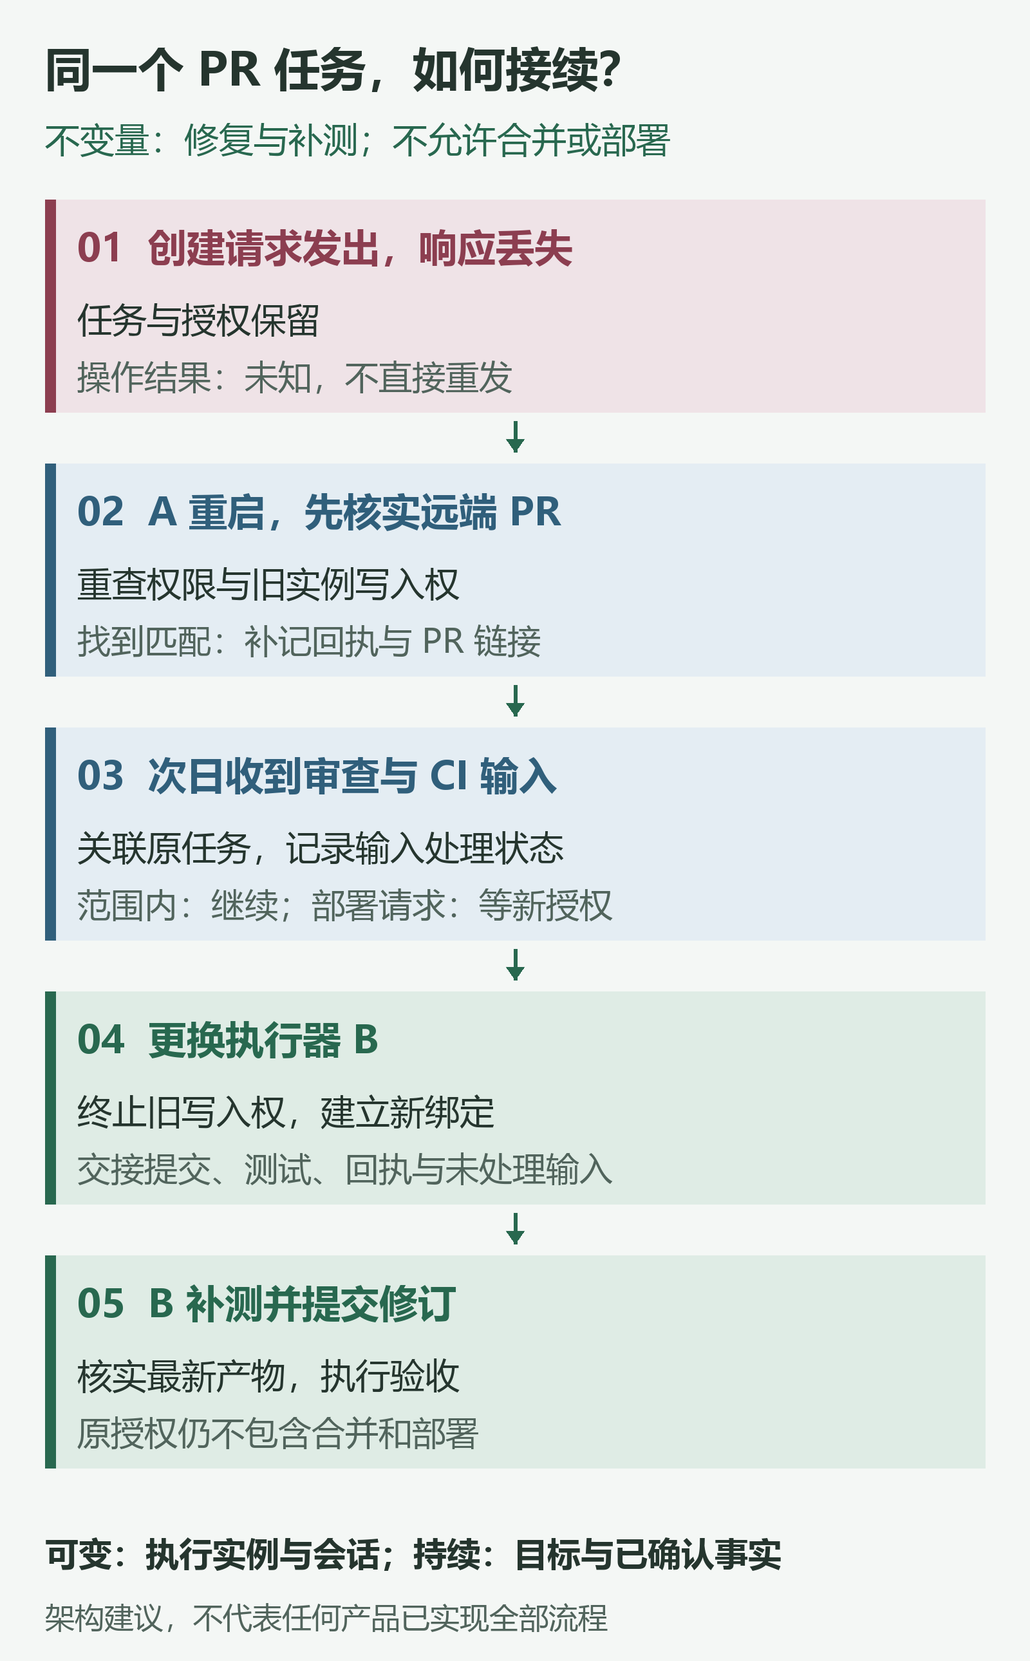
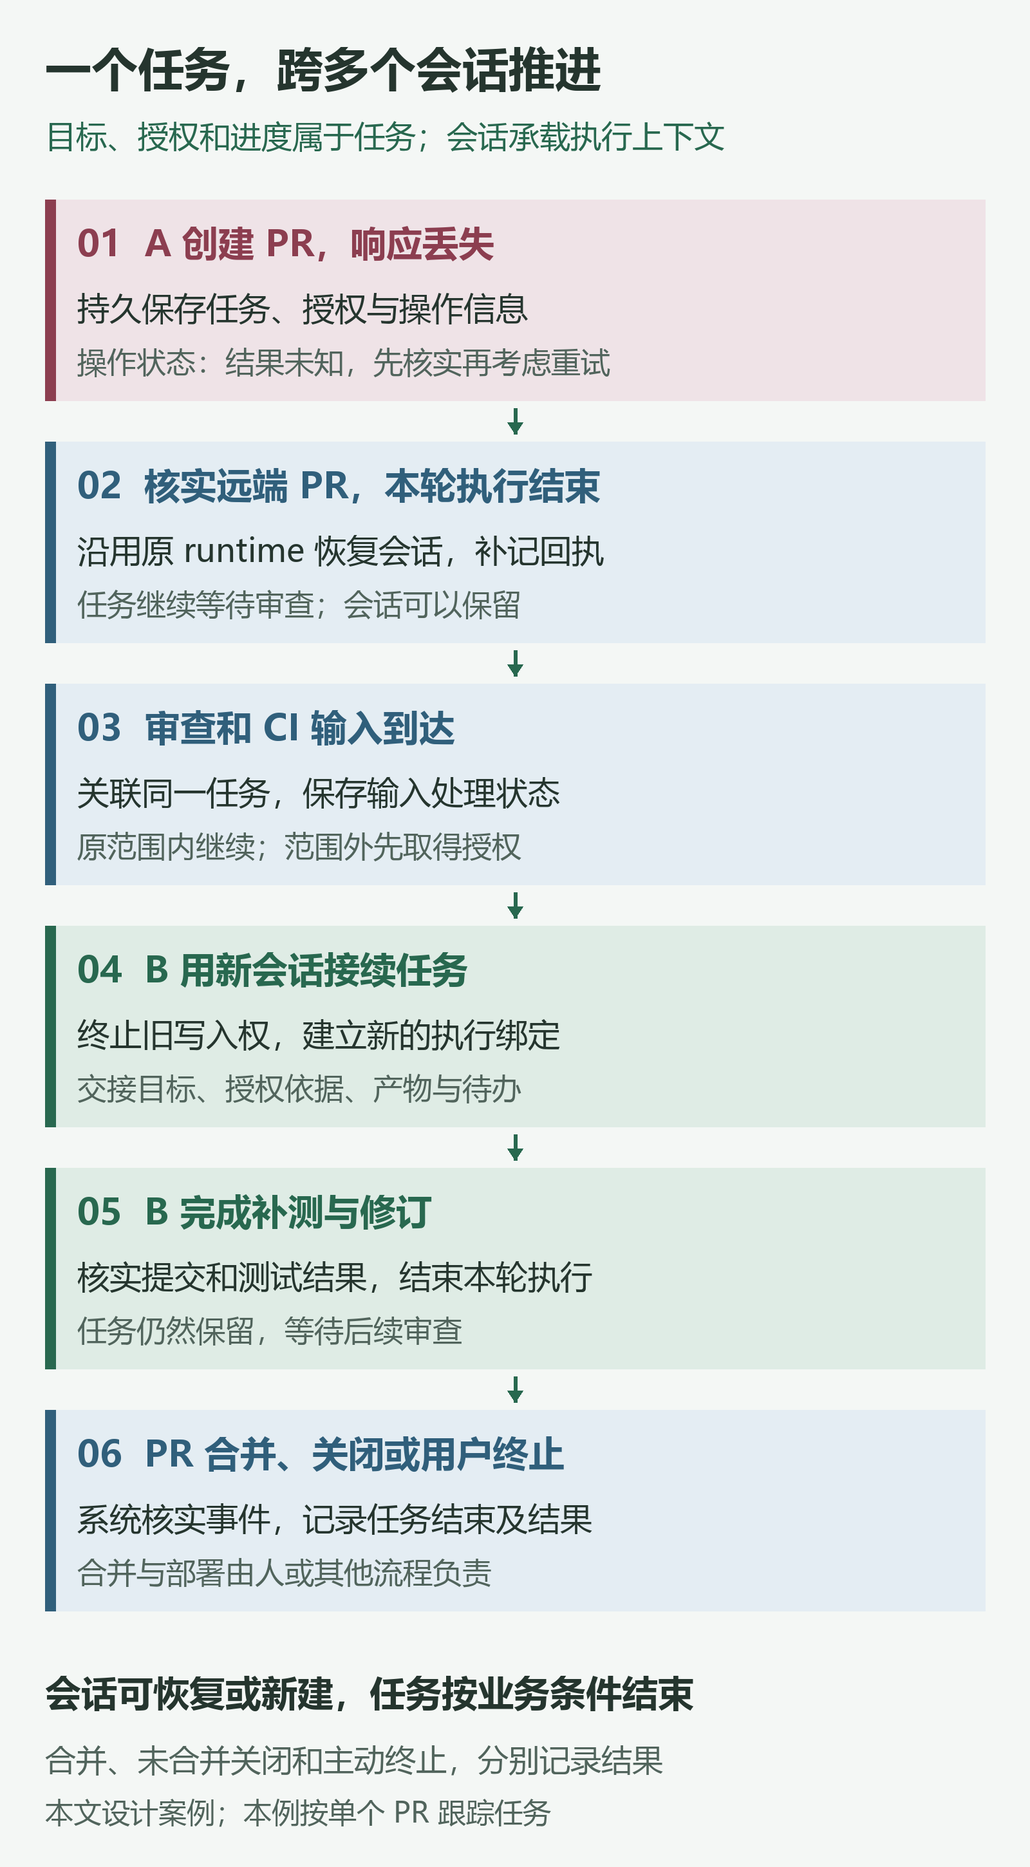
edit: clarify task lifecycle across agent sessions

Changed region(s): [[0.0312, 0.124, 0.75, 0.9922], [0.0312, 0.0, 0.6875, 0.124]]

diff --git a/content/posts/harness-boundaries-work-orchestration/index.md b/content/posts/harness-boundaries-work-orchestration/index.md
@@ -2,8 +2,8 @@
 title: "Harness 的边界正在重画：从模型适配到工作编排"
 date: 2026-11-05
 draft: false
-summary: "从一个 PR 任务的超时、重启和交接出发，讨论 Harness 如何分离状态、执行核心与工作编排，以及更换模型和执行器时需要保留哪些事实与授权。"
-description: "以 PR 任务的超时、重启和交接为例，分析 Harness 的状态管理、运行时接入与工作编排，以及更换模型和执行器时的恢复与授权要求。"
+summary: "一项修复任务可以跨多个会话，经历超时、重启、执行器交接和审查，直到 PR 合并、关闭或用户终止。借这条工作链，讨论 Harness 的状态管理、运行时接入和工作编排。"
+description: "以跨多个会话推进的 PR 修复任务为例，分析 Harness 的状态管理、运行时接入与工作编排，以及执行器交接时的事实保留、权限检查和任务结束条件。"
 tags:
   - Harness Engineering
   - Agent Runtime
@@ -21,17 +21,19 @@ Anthropic 在 [Managed Agents 的架构文章](https://www.anthropic.com/researc
 
 模型升级会让一些执行策略过时，但运行中的任务仍要应对进程崩溃、工具超时和结果丢失。模型再强，遇到一次超时的调用，系统也得核实它究竟有没有成功。
 
-因此，**harness 需要让规划、检索和上下文策略保持可替换，同时独立保存任务、授权与执行事实。** 上下文被压缩、进程被替换之后，后续执行仍要有据可查。这种状态分离可以在同一个服务内实现，是否拆分服务则取决于实际的运行与协作需求。
+因此，**支撑持续任务的系统，需要独立保存任务、授权与执行事实，让规划、检索和上下文策略保持可替换。** 这些状态可以由宿主、业务平台或托管服务按职责维护。上下文被压缩、执行进程被替换之后，后续工作仍要有据可查。状态分离可以在同一个服务内实现，是否拆分服务则取决于实际的运行与协作需求。
 
-下面用一项假想任务串起这些问题：用户授权 agent 修复当前仓库的接口超时、补充测试并提交 PR，**不包含合并和部署**。
+下面用一项假想任务串起这些问题：修复当前仓库的接口超时，并跟进相关测试和审查。agent 可以提交、补测和修订 PR，**合并与部署由人或其他流程负责**。本例中，任务持续跟踪到该 PR 合并或关闭，用户也可以提前终止。系统分别记录合并、未合并关闭或主动终止等结果。
 
-文中的“执行器”指实际承担这次工作的 agent 运行实例，它使用选定的 runtime，并绑定会话和执行环境。任务与执行器的绑定关系，后文称为 Assignment。假设执行过程中接连发生了这些事：
+文中的“执行器”指实际承担这次工作的 agent 运行实例，它使用选定的 runtime，并绑定会话和执行环境。任务与执行器的绑定关系，后文称为 Assignment。
 
-> 创建 PR → 成功响应丢失 → 执行器重启 → 次日审查追加要求 → 更换执行器继续处理。
+**任务保存目标、授权、业务进度和产物，会话承载执行上下文。同一个任务可以跨多个会话，由不同执行器先后接续。** 一个会话也可以承载多轮执行。假设这项任务依次经历：
 
-要让工作继续，系统需要回答三个问题：进程退出后，状态和环境如何管理？换一个 harness，宿主怎样接入？跨过多个会话之后，任务由谁持续管理？下文按这三个问题展开，讨论的流程是架构建议，具体产品的实现范围会另行说明。
+> 创建 PR → 成功响应丢失 → 恢复执行并核实结果 → 本轮执行结束，任务等待审查 → 新会话接手修订 → PR 合并、关闭或用户终止。
 
-## 最贴近模型的地方，未必最稳定
+要让工作继续，系统需要回答三个问题：进程退出后，状态和环境如何管理？换一个 harness，宿主怎样接入？跨过多个会话之后，任务由谁持续管理？下文按这三个问题展开讨论。
+
+## 模型升级后，哪些设计还成立？ {#最贴近模型的地方未必最稳定}
 
 讨论 agent 时，常见的起点是 [ReAct](https://arxiv.org/abs/2210.03629)：模型提出行动，环境返回观察，模型再据此选择下一步。这解释了行动循环如何推进；存储、恢复和权限还需要运行系统来处理。
 
@@ -48,9 +50,9 @@ Anthropic 在 [Managed Agents 的架构文章](https://www.anthropic.com/researc
 
 同一项责任可以更换实现，同一套接口也可以放在进程内或独立服务中。是否拆分，要看各部分需要怎样的生命周期、故障隔离和权限控制。
 
-![同一个 PR 任务经过响应丢失、执行器重启、审查追问和执行器替换；任务与授权持续存在，执行绑定可变化，操作结果先核实再继续。](./PR任务的恢复与交接.png)
+![同一项修复任务跨多个会话推进：A 创建 PR 的响应丢失后先核实操作结果，本轮执行结束后任务等待审查；B 用新会话接手修订，直到 PR 合并、关闭或用户终止，系统记录任务结果。](./PR任务的恢复与交接.png)
 
-*PR 任务的恢复与交接示意。业务授权决定工作范围，执行器权限决定实际能做什么，PR 审查批准则是代码评审结论；三者分别生效。*
+*任务跨越多轮执行和多个会话，本例以 PR 合并、关闭或用户明确终止为结束条件。业务授权限定 agent 能做什么，PR 审查批准表达评审结论；合并和部署由人或其他流程执行。*
 
 ## 第一条边界：让状态和环境不再依附一个进程
 
@@ -82,15 +84,15 @@ Anthropic 的 Managed Agents 架构文章，将系统分成三类对象：
 
 执行器 A 发出创建 PR 的请求前，应先持久化仓库、head/base 分支、提交版本和本次操作的关联标识。响应超时后，把操作标为**结果未知**，保留核实的依据。即使 A 随后崩溃，这些记录也必须能被找回。
 
-重启时，宿主先确认旧实例不会继续写入，再恢复原有会话或交给新实例接手。恢复流程要查询远端 PR，用仓库、分支等信息核实结果。找到唯一匹配后，补记 PR 链接和回执。
+重启时，宿主先确认旧实例不会继续写入。这里先沿用原来的 runtime 恢复 A 的会话，任务记录继续保留。恢复流程要查询远端 PR，用仓库、分支等信息核实结果。找到唯一匹配后，补记 PR 链接和回执。
 
 如果查不清结果，就保持待核实状态。只有证实操作未发生，或外部接口明确提供幂等保证时，才考虑重试。内部关联标识便于追踪操作，远端能否去重仍取决于外部接口。
 
-更换执行实例时，任务目标和授权记录继续保留，恢复流程还要检查权限是否过期或被撤销。
+恢复流程还要检查权限是否过期或被撤销。进程替换、会话恢复和任务是否结束，由各自的规则决定。
 
 ## 第二条边界：Harness 自己成为可组合的部件
 
-PR 已确认存在，A 进入等待审查的阶段。如果接下来想换成使用另一个 runtime 的执行器 B，宿主需要怎样接入它？
+PR 创建结果确认后，A 可以结束本轮执行，任务进入等待审查阶段。后续输入到来时，系统可以恢复原会话，也可以创建新会话继续处理。如果准备交给使用另一种 runtime 的执行器 B，宿主还需要解决怎样接入它的问题。
 
 ### 可嵌入应用的执行核心 {#产品往下提供-sdk框架往上提供-harness}
 
@@ -124,7 +126,7 @@ Barbaste 的[分析](https://arxiv.org/html/2609.00006v1#S14.SS4)还记录了它
 
 隔离机制也有差异。在该研究快照中，Omnigent 对某些后端使用自己的沙箱包装，对 Codex 则委托原生沙箱。即使公共策略相同，底层实现和信任假设仍可能不同，需要逐后端验证隔离强度。
 
-接入 B 时，至少要测清四件事：取消会停止哪些作业，B 能否访问同一个工作区，权限由谁检查，失败会返回什么状态。确认这些之后，才有条件继续讨论怎样把 A 的工作交给 B。
+接入 B 时，至少要测清四件事：取消会停止哪些作业，B 能否取得任务所需的代码和产物，权限由谁检查，失败会返回什么状态。工作区可以复用，也可以根据保存的产物重建。确认这些之后，才有条件继续讨论怎样把 A 的工作交给 B。
 
 ### 替换对象的三个层次
 
@@ -136,7 +138,7 @@ Barbaste 的[分析](https://arxiv.org/html/2609.00006v1#S14.SS4)还记录了它
 
 ## 第三条边界：从管理会话，到管理工作
 
-第二天，PR 审查者要求补一个取消请求的测试，CI 也报告了偶发失败。系统需要把这些输入关联到原任务，再决定由谁继续处理。
+第二天，PR 审查者要求补一个取消请求的测试，CI 也报告了偶发失败。A 的上一轮执行已经结束，任务仍在等待审查。系统需要把新输入关联到这项任务，再决定恢复原会话，还是交给新会话处理。
 
 多 agent 协作早已存在，[AutoGen](https://arxiv.org/abs/2308.08155)等研究探索过角色分工。当任务还要持续接收外部事件时，调度需要处理更多情况。
 
@@ -154,15 +156,17 @@ Barbaste 的[分析](https://arxiv.org/html/2609.00006v1#S14.SS4)还记录了它
 
 如果先读过[设计文章](https://mp.weixin.qq.com/s/zoS7GlReWPhfCjENGxXCdg)，需要留意两份资料的用词：设计文章用 Router、Worker 和 Watchdog 描述协调、执行和监督角色；仓库用 Trigger、Thread 组织输入，再用上述三个对象记录工作、授权及其与 Executor 的绑定。两者各自侧重的内容和实现范围有所区别。
 
-**Ticket 有独立于 Session 的生命周期。** PR 提交后，会话可以结束，任务继续等待审查；执行器退出可以结束一次 Assignment，Ticket 则保留下来。后续信息通过订阅关系到达，允许处理的范围由 Mandate 记录。
+**Ticket 有独立于 Session 的生命周期，一项任务可以跨多个会话。** 提交 PR 后，本轮执行可以结束，任务继续等待审查。后续工作可以恢复原会话，也可以在新会话中推进；执行器更换时，通过新的 Assignment 关联到同一个 Ticket。后续信息通过订阅关系到达，允许处理的范围由 Mandate 记录。创建新会话时，任务身份、授权记录和已有产物继续保留。
 
 ### 审查意见如何随任务交给 B {#将审查要求交给-b而不是重新发一遍-prompt}
 
 在本文的建议流程中，系统通过 PR 将审查评论和 CI 结果关联到原任务，并记录输入的来源、顺序和处理状态。补充测试若在原范围内，发送者身份和当前政策也允许，就可以继续。若追问变成“顺便部署生产”，则需要先取得新授权。PR 审查批准只表达代码评审结论，部署权限仍要单独确认。
 
-如果这时决定由 B 接手，宿主先停止或隔离 A 的写入能力，再建立新的执行绑定。交接内容包括任务目标、分支与提交版本、已确认的 PR、测试结果和未处理评论。任务和证据继续保留，B 通常需要新建原生会话；它的工具权限由宿主重新校验，凭据应通过受控机制提供，不能混进聊天摘要。
+如果这时决定由 B 接手，宿主先停止或隔离 A 的写入能力，再建立新的执行绑定。交接内容包括任务目标、分支与提交版本、已确认的 PR、测试结果和未处理评论；未提交的修改和尚未上传的必要产物也要保存并交接。B 使用新会话，继续处理同一个任务。它的工具权限由宿主重新校验，凭据应通过受控机制提供，不能混进聊天摘要。
 
 **更换执行器时要重新检查权限。** 原授权仍有效、工作范围未变，且当前政策允许，就可以继续沿用。扩大范围、权限失效或政策要求确认时，则需要新的批准。B 还要核对远端分支和本地工作区，避免沿用过期的代码或测试结果。这一交接流程是本文的设计建议，DeepSeek 公开原型的能力仍以其文档和实现为准。
+
+B 补测并提交修订后，也可以结束本轮执行，让任务继续等待审查。按本例的约定，系统确认 PR 已合并、未合并关闭或用户已终止任务后，才记录任务结束及其结果。agent 可以观察合并结果，合并和部署操作仍由人或其他流程执行。
 
 ### 为人工输入保留及时响应的通道 {#减少人的调度不等于取消人的控制}
 
@@ -177,12 +181,13 @@ Barbaste 的[分析](https://arxiv.org/html/2609.00006v1#S14.SS4)还记录了它
 | 阶段 | 需要保留或核实的信息 | 执行约束与允许的变化 |
 | --- | --- | --- |
 | 创建请求发出，响应丢失 | 任务、授权、仓库与分支、提交版本；操作标为结果未知 | 先核实结果，不能仅凭超时重复写入 |
-| A 重启 | 查询远端 PR，补记回执；检查权限与旧实例的写入能力 | 可恢复会话或建立新绑定 |
-| 收到审查与 CI 输入 | 关联原任务，记录来源和处理状态 | 超出原范围的请求等待新授权 |
-| B 接手 | 交接已确认事实、产物与待办；校验权限和工作区 | 终止旧实例写入，允许更换绑定和原生会话 |
-| 补测并提交修订 | 核实最新提交与测试结果 | 合并和部署仍在授权范围外；按验收规则判定是否完成 |
+| A 恢复并确认 PR 已创建 | 查询远端 PR，补记回执；检查权限与旧实例的写入能力 | 本轮执行可结束，任务进入等待审查阶段 |
+| 收到审查与 CI 输入 | 关联原任务，记录来源和处理状态 | 可恢复原会话或创建新会话；范围外请求等待新授权 |
+| B 用新会话接手 | 交接已确认事实、产物与待办；校验权限和工作区 | 终止旧实例写入，建立新绑定，任务身份不变 |
+| B 补测并提交修订 | 核实最新提交与测试结果 | 本轮执行可结束，任务继续等待审查 |
+| PR 合并、关闭或用户终止 | 核实外部事件或用户决定，记录结束原因和业务结果 | 任务结束，历史记录保留；agent 不执行合并和部署 |
 
-托管服务可以负责运行恢复，meta-harness 可以选择 B，业务平台可以接单和验收。无论怎样分工，都要明确以哪份任务记录为准，以及谁负责确认完成、处理取消和重试。
+托管服务可以负责运行恢复，meta-harness 可以选择 B，业务平台可以接单和验收。无论怎样分工，都要明确以哪份任务记录为准，以及谁负责判定任务结束、记录结果、处理取消和重试。
 
 ## 执行策略如何随模型变化 {#边界也会反向移动策略被内化harness-被优化}
 
@@ -214,33 +219,34 @@ Barbaste 在所选系统与固定版本中未发现用于代码检索的向量 R
 
 实现这套 PR 流程，至少需要三类记录：
 
-- **任务记录**：保存目标、来源、验收条件，并引用授权记录。授权记录包含范围、授予者、有效期和政策版本。
+- **任务记录**：保存目标、来源、验收与结束条件、当前进度和最终结果，并引用授权记录。授权记录包含范围、授予者、有效期和政策版本。
 - **执行绑定**：记录当前是哪次尝试，使用哪个 runtime、会话和环境，以及谁持有写入权。可以在支持校验的写入入口检查递增的执行代次号（fencing token），拒绝旧实例的请求；也可以终止或隔离旧实例。租约过期本身无法让旧命令停止。
 - **事实与证据**：保存操作状态和回执、产物版本、测试依据、人工决定以及未处理的输入。操作状态中要明确保留“结果未知”。
 
-具体的数据结构可以按业务调整。一项任务可以先后绑定多个执行器，记录也可以放在同一个数据库里。摘要用于帮助阅读，核实事实时仍应能查回原始记录。
+具体的数据结构可以按业务调整。一项任务可以先后绑定多个执行器、跨多个会话推进，记录也可以放在同一个数据库里。会话结束时，任务记录继续保留；任务结束时，还要保留已经确认的结果和历史。摘要用于帮助阅读，核实事实时仍应能查回原始记录。
 
-恢复接口还要说明不同接续方式的适用条件：
+接续工作时，先确认是否沿用原来的 runtime：
 
-- **原生恢复**：在同一 runtime 中，使用它自己的持久状态继续执行。
-- **语义交接**：向不同的 runtime 移交目标、证据、产物和未完成事项。
-- **检查点重建**：核实外部状态和已发生的动作，再重新开始执行。
+- 沿用同一 runtime，且原生持久状态可用时，可以通过**原生恢复**继续执行。
+- 更换 runtime 时，需要通过**语义交接**移交目标、证据、产物和未完成事项。
 
-这次 PR 流程也可以直接用来设计验收测试：创建成功但响应丢失时，系统是否先查询？A 失去写入权后，还能否操作？重复投递的评论会不会重复处理？B 接手时是否重新校验权限？新增的部署要求是否需要授权？这些故障和变更场景，才能检验接入与交接的约定是否得到落实。
+两种方式都可能需要先核实外部状态，再重建可靠的执行起点。原会话无法继续使用时，也可以根据任务记录和已确认事实建立新会话，继续推进同一个任务。
+
+这次 PR 流程也可以直接用来设计验收测试：创建成功但响应丢失时，系统是否先查询？A 失去写入权后，还能否操作？会话结束后，审查意见能否继续送达同一个任务？重复投递的评论会不会重复处理？B 接手时是否重新校验权限？PR 关闭与合并能否记录为不同结果？新增的部署要求是否需要授权？这些故障和变更场景，才能检验接入与交接的约定是否得到落实。
 
 评估收益时，可以看有效完成率、成功任务成本、恢复质量和人工处理时间。[Agent 评测综述](https://aclanthology.org/2026.findings-acl.1330/)讨论的安全、鲁棒性与细粒度评价，也需要通过这些具体场景来检验。
 
 ## 这些边界接下来会怎样变化 {#边界的终点不是一张固定的架构图}
 
-当执行器越来越容易替换，交接接口需要传递的内容也会从消息扩展到工作状态。B 需要知道目标、授权依据、PR 和提交版本、操作回执以及待办事项。有了这些信息，它才有依据继续工作。未来的交接标准，应先约定哪些信息必须保留，再讨论传输格式。
+当工作需要跨多个会话和执行器持续推进，交接接口就要能传递任务状态。B 需要知道目标、授权依据、PR 和提交版本、操作回执以及待办事项。有了这些信息，它才有依据继续工作。未来的交接标准，应先约定哪些信息必须保留，再讨论传输格式。
 
 模型和运行策略会继续变化，组织也会修改政策。系统需要记录规则由谁制定、授权何时有效、权限在哪里检查，以及相关的变更历史。否则，策略调整得越快，越难判断一次操作当时为什么被允许。
 
-接单、选择后端、恢复进程和业务验收，可能分布在多个产品中。团队需要据此明确任务记录、完成判定、取消和重试分别由谁负责。平台竞争也会围绕这些职责展开，用户的迁移成本将取决于它们能否被接替。
+接单、选择后端、恢复进程和业务验收，可能分布在多个产品中。团队需要据此明确任务记录、结束判定、结果确认、取消和重试分别由谁负责。平台竞争也会围绕这些职责展开，用户的迁移成本将取决于它们能否被接替。
 
 这些方向仍有待实践检验。短任务可能只需要一个小循环，严格流程也可能更适合确定性工作流。增加接口或拆分服务之前，都应能说清楚它解决了什么生命周期、故障隔离或权限问题。
 
-那条 PR 任务即使经历了超时、重启和追问，接手的人或执行器也应能查清目标、授权、已发生的操作，以及下一步要处理的事情。
+那条 PR 任务可以经历超时、重启、追问和多次会话更换。每次接手时，目标、授权和已有结果都应可查；最后结束它的，是明确的业务结果或用户决定。
 
 ---
 
